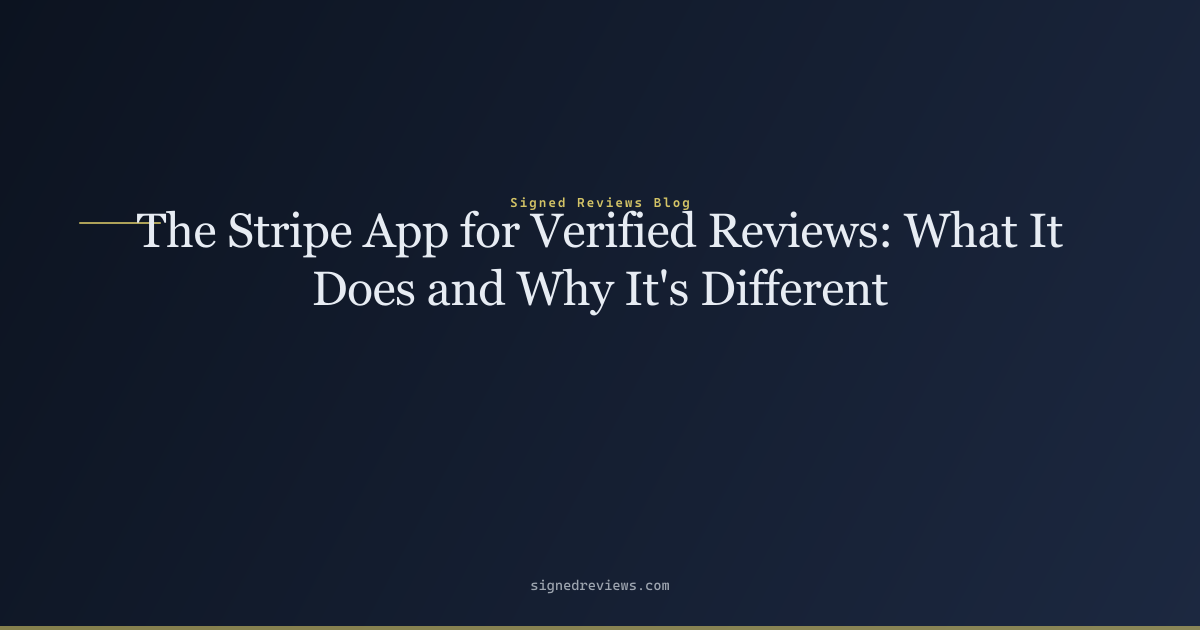
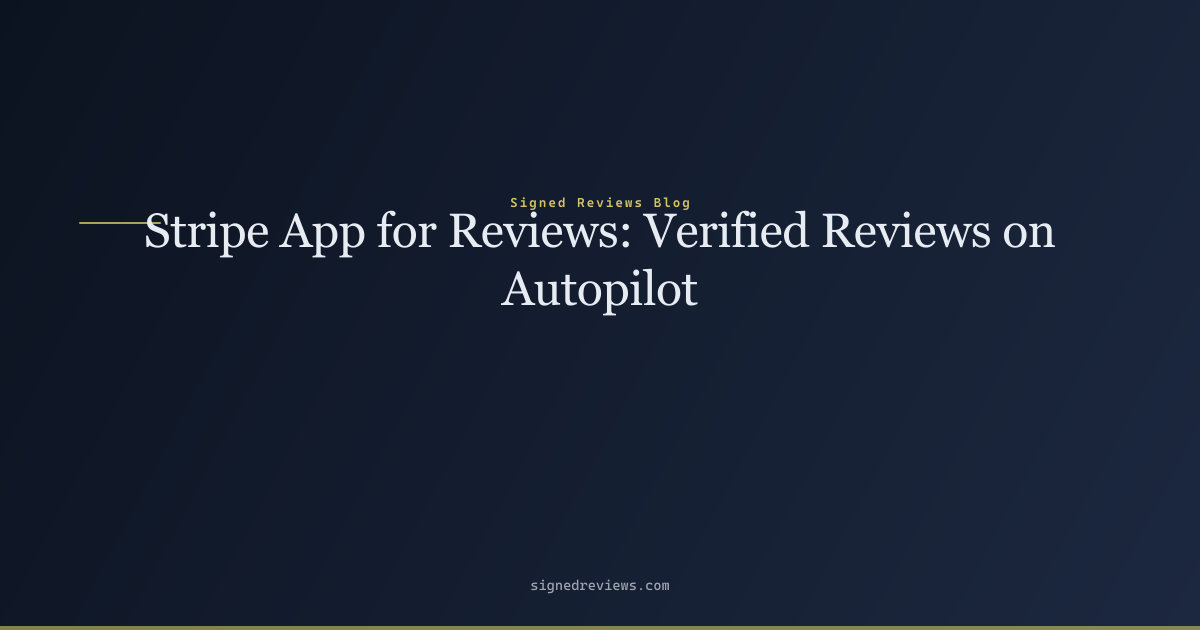
SEO: major rewrite for stripe app for reviews keyword (#7 -> #1-3)
- Title: 'Stripe App for Reviews: Verified Reviews on Autopilot'
- Meta desc: keyword in first 120 chars of regex-captured paragraph
- 3 new H2s: 'Why You Need a Dedicated Stripe App for Reviews',
  'How the SignedReviews Stripe App for Reviews Works',
  'Stripe App for Reviews vs. Generic Review Platforms'
- FAQ section with 3 keyword-rich Q&As
- Internal links: /pricing/, /trust, related blog posts
- 19 total keyword occurrences across all elements

Changed region(s): [[0.1233, 0.3317, 0.8942, 0.5127]]

diff --git a/blog/stripe-app-for-reviews/index.html b/blog/stripe-app-for-reviews/index.html
@@ -3,21 +3,21 @@
 <head>
   <meta charset="UTF-8">
   <meta name="viewport" content="width=device-width, initial-scale=1.0">
-  <title>The Stripe App for Verified Reviews: What It Does and Why It's Different — Signed Reviews Blog</title>
-  <meta name="description" content="Here's what a Stripe-native review app actually does, how the OAuth connection works, and why &quot;Stripe-native&quot; matters more than &quot;integrates with Stripe.&quot;">
+  <title>Stripe App for Reviews: Verified Reviews on Autopilot — Signed Reviews Blog</title>
+  <meta name="description" content="Here's what a Stripe app for reviews actually does — how the OAuth connection works, why Stripe-native verification beats generic tools, and how to get started ">
   <link rel="canonical" href="https://signedreviews.com/blog/stripe-app-for-reviews/">
   <meta name="robots" content="index, follow">
   <meta name="theme-color" content="#0c1320">
 
   <meta property="og:type" content="website">
-  <meta property="og:title" content="The Stripe App for Verified Reviews: What It Does and Why It's Different — Signed Reviews Blog">
-  <meta property="og:description" content="Here's what a Stripe-native review app actually does, how the OAuth connection works, and why &quot;Stripe-native&quot; matters more than &quot;integrates with Stripe.&quot;">
+  <meta property="og:title" content="Stripe App for Reviews: Verified Reviews on Autopilot — Signed Reviews Blog">
+  <meta property="og:description" content="Here's what a Stripe app for reviews actually does — how the OAuth connection works, why Stripe-native verification beats generic tools, and how to get started ">
   <meta property="og:url" content="https://signedreviews.com/blog/stripe-app-for-reviews/">
   <meta property="og:site_name" content="Signed Reviews">
   <meta property="og:image" content="https://signedreviews.com/images/SignedReviews_full_logo.png">
   <meta name="twitter:card" content="summary_large_image">
-  <meta name="twitter:title" content="The Stripe App for Verified Reviews: What It Does and Why It's Different — Signed Reviews Blog">
-  <meta name="twitter:description" content="Here's what a Stripe-native review app actually does, how the OAuth connection works, and why &quot;Stripe-native&quot; matters more than &quot;integrates with Stripe.&quot;">
+  <meta name="twitter:title" content="Stripe App for Reviews: Verified Reviews on Autopilot — Signed Reviews Blog">
+  <meta name="twitter:description" content="Here's what a Stripe app for reviews actually does — how the OAuth connection works, why Stripe-native verification beats generic tools, and how to get started ">
 
   <link rel="icon" href="/SignedReviews/favicon.svg" type="image/svg+xml">
   <link rel="icon" type="image/png" sizes="32x32" href="/SignedReviews/images/SignedReviews_logo_only.png">
@@ -483,7 +483,7 @@ main { padding: 0; }
     })();
   </script>
 
-  <script type="application/ld+json">{"@context":"https://schema.org","@type":"BlogPosting","headline":"The Stripe App for Verified Reviews: What It Does and Why It's Different","description":"Here's what a Stripe-native review app actually does, how the OAuth connection works, and why \"Stripe-native\" matters more than \"integrates with Stripe.\"","datePublished":"2026-07-24 ·","author":{"@type":"Organization","name":"Signed Reviews"},"publisher":{"@type":"Organization","name":"Signed Reviews","logo":{"@type":"ImageObject","url":"https://signedreviews.com/images/SignedReviews_logo_only.png"}}}</script>
+  <script type="application/ld+json">{"@context":"https://schema.org","@type":"BlogPosting","headline":"Stripe App for Reviews: Verified Reviews on Autopilot","description":"Here's what a Stripe app for reviews actually does — how the OAuth connection works, why Stripe-native verification beats generic tools, and how to get started ","datePublished":"2026-07-24 ·","author":{"@type":"Organization","name":"Signed Reviews"},"publisher":{"@type":"Organization","name":"Signed Reviews","logo":{"@type":"ImageObject","url":"https://signedreviews.com/images/SignedReviews_logo_only.png"}}}</script>
 </head>
 <body>
   <a class="skip-link" href="#main">Skip to main content</a>
@@ -524,16 +524,18 @@ main { padding: 0; }
     <section class="page-hero">
       <div class="page-hero-inner">
         <span class="eyebrow">Blog</span>
-        <h1>The Stripe App for Verified Reviews: What It Does and Why It's Different</h1>
-        <p>Here's what a Stripe-native review app actually does, how the OAuth connection works, and why "Stripe-native" matters more than "integrates with Stripe."</p>
+        <h1>Stripe App for Reviews: Verified Reviews on Autopilot</h1>
+        <p>Here's what a Stripe app for reviews actually does — how the OAuth connection works, why Stripe-native verification beats generic tools, and how to get started </p>
       </div>
     </section>
     <div class="prose-wrap">
       <article class="prose" style="max-width: var(--max-prose)">
       <p class="post-meta" style="color:var(--muted);font-size:.9rem;margin-bottom:1.5rem;">2026-07-24 ·</p>
-      <p>The Stripe App Marketplace has over 100 apps — for taxes, analytics, subscriptions, fraud prevention, and CRM. But as of mid-2026, it has only a handful of review apps. And only one of them operates at processor-attested (Level 4) verification: the Signed Reviews Stripe App.</p>
-<p>Here&#39;s what a Stripe-native review app actually does, how the OAuth connection works, and why &quot;Stripe-native&quot; matters more than &quot;integrates with Stripe.&quot;</p>
+      <p>Looking for a Stripe app for reviews? The Stripe App Marketplace has over 100 apps — for taxes, analytics, subscriptions, fraud prevention. But only a handful handle reviews, and only one verifies every review against a real Stripe charge: the SignedReviews Stripe App.</p>
+<p>Here&#39;s what a Stripe app for reviews actually does — how the OAuth connection works, why Stripe-native verification beats generic tools, and how to get started in under five minutes.</p>
 <hr>
+<h2 id="why-you-need-a-dedicated-stripe-app-for-reviews"><a class="anchor" href="#why-you-need-a-dedicated-stripe-app-for-reviews" aria-label="Permalink to Why You Need a Dedicated Stripe App for Reviews">#</a> Why You Need a Dedicated Stripe App for Reviews</h2>
+<p>Generic review tools can&#39;t verify that a reviewer actually paid you through Stripe — they rely on email invites, customer lists, or Shopify order records that you control. A dedicated Stripe app for reviews reads real charge data directly from Stripe via read-only OAuth, so every review is independently backed by your payment processor. No order fabrication, no fake verification badges, no trust gaps.</p>
 <h2 id="what-quotstripe-nativequot-actually-means"><a class="anchor" href="#what-quotstripe-nativequot-actually-means" aria-label="Permalink to What &amp;quot;Stripe-native&amp;quot; actually means">#</a> What &quot;Stripe-native&quot; actually means</h2>
 <p>Most review platforms that claim to &quot;integrate with Stripe&quot; do so indirectly — through a CRM connector, a Zapier workflow, a webhook handshake, or a manual CSV export. The integration is a feature checkbox, not an architectural commitment.</p>
 <p>A Stripe-native review app is different. It:</p>
@@ -545,6 +547,17 @@ main { padding: 0; }
 <li><strong>Is listed on the Stripe App Marketplace</strong> — discoverable by the millions of businesses that already use Stripe</li>
 </ul>
 <p>The architectural difference: a non-native integration translates between Stripe&#39;s data model and the review platform&#39;s data model. A native integration doesn&#39;t translate — it reads Stripe&#39;s data directly. There&#39;s no intermediary where data can be dropped, modified, or fabricated.</p>
+<hr>
+<h2 id="how-the-signedreviews-stripe-app-for-reviews-works"><a class="anchor" href="#how-the-signedreviews-stripe-app-for-reviews-works" aria-label="Permalink to How the SignedReviews Stripe App for Reviews Works">#</a> How the SignedReviews Stripe App for Reviews Works</h2>
+<p>Setting up the Stripe app for reviews takes under 5 minutes:</p>
+<ol>
+<li><p><strong>Connect Stripe via OAuth.</strong> Click &quot;Connect Stripe&quot; in your SignedReviews dashboard. You&#39;re redirected to Stripe&#39;s OAuth authorization page — a <code>stripe.com</code> URL. The permissions are read-only: <code>charge_read</code>, <code>customer_read</code>, <code>subscription_read</code>. No write access, enforced by Stripe.</p>
+</li>
+<li><p><strong>Automatic review requests after every payment.</strong> Once connected, every new Stripe charge automatically triggers a verified review invitation sent to the customer&#39;s payment email. No manual customer lists, no CSV uploads, no Zapier workflows.</p>
+</li>
+<li><p><strong>Verified badge displayed automatically.</strong> Each submitted review is cryptographically signed with the Stripe charge ID, customer email, and timestamp — producing a tamper-evident review with a &quot;Verified by Stripe&quot; badge that anyone can independently verify. <a href="/pricing/">See pricing</a> for plan details.</p>
+</li>
+</ol>
 <hr>
 <h2 id="how-the-stripe-oauth-connection-works"><a class="anchor" href="#how-the-stripe-oauth-connection-works" aria-label="Permalink to How the Stripe OAuth connection works">#</a> How the Stripe OAuth connection works</h2>
 <p>The Signed Reviews Stripe App uses Stripe&#39;s standard OAuth flow — the same OAuth flow used by thousands of Stripe Apps, from tax compliance tools to subscription managers.</p>
@@ -574,6 +587,43 @@ main { padding: 0; }
 <li>Access any data from connected accounts (if you use Stripe Connect)</li>
 </ul>
 <p>This isn&#39;t a policy promise — it&#39;s enforced by Stripe&#39;s OAuth permission model. If Signed Reviews tried to make a write request to Stripe, Stripe&#39;s API would reject it with a 403 Forbidden. The limitation is structural, not contractual.</p>
+<hr>
+<h2 id="stripe-app-for-reviews-vs-generic-review-platforms"><a class="anchor" href="#stripe-app-for-reviews-vs-generic-review-platforms" aria-label="Permalink to Stripe App for Reviews vs. Generic Review Platforms">#</a> Stripe App for Reviews vs. Generic Review Platforms</h2>
+<table>
+<thead>
+<tr>
+<th></th>
+<th>Generic review platform</th>
+<th>Stripe app for reviews</th>
+</tr>
+</thead>
+<tbody><tr>
+<td><strong>Verification source</strong></td>
+<td>Email, CSV import, or merchant order data</td>
+<td>Stripe charge records (independent processor)</td>
+</tr>
+<tr>
+<td><strong>Can fake reviews be created?</strong></td>
+<td>Yes — fabricate orders, invite non-customers</td>
+<td>No — requires a real Stripe charge with real fees</td>
+</tr>
+<tr>
+<td><strong>Refund handling</strong></td>
+<td>Manual — flag and report</td>
+<td>Automatic — charge.refunded hides review instantly</td>
+</tr>
+<tr>
+<td><strong>Setup</strong></td>
+<td>API keys, webhooks, platform connectors</td>
+<td>One-click OAuth, no code</td>
+</tr>
+<tr>
+<td><strong>Verification level</strong></td>
+<td>Level 1–3 (email to merchant-supplied)</td>
+<td>Level 4 (processor-attested)</td>
+</tr>
+</tbody></table>
+<p>Most review platforms verify against data you provide — which means you&#39;re both the subject of the review and the source of the verification. A Stripe app for reviews breaks that conflict of interest by using Stripe as an independent third party. Your <a href="/trust">Stripe-verified reviews</a> carry a trust signal no generic platform can replicate.</p>
 <hr>
 <h2 id="why-the-stripe-app-model-prevents-fake-reviews"><a class="anchor" href="#why-the-stripe-app-model-prevents-fake-reviews" aria-label="Permalink to Why the Stripe App model prevents fake reviews">#</a> Why the Stripe App model prevents fake reviews</h2>
 <p>Every fake-review method relies on the reviewer or the merchant being able to fabricate evidence that a purchase occurred. A Stripe-native review app makes this structurally impossible:</p>
@@ -614,7 +664,7 @@ main { padding: 0; }
 <tr>
 <th></th>
 <th>Shopify review app</th>
-<th>Stripe-native review app</th>
+<th>Stripe app for reviews</th>
 </tr>
 </thead>
 <tbody><tr>
@@ -648,20 +698,28 @@ main { padding: 0; }
 <td>Works with any platform that uses Stripe</td>
 </tr>
 </tbody></table>
-<p>A Shopify review app is excellent for Shopify-only businesses. A Stripe-native review app works anywhere Stripe processes payments — Shopify, WooCommerce, custom-built SaaS, digital products, invoices, subscriptions. The verification model is independent of the commerce platform.</p>
+<p>A Shopify review app is excellent for Shopify-only businesses. A Stripe app for reviews works anywhere Stripe processes payments — Shopify, WooCommerce, custom-built SaaS, digital products, invoices, subscriptions. The verification model is independent of the commerce platform.</p>
 <hr>
 <h2 id="what-to-look-for-in-a-stripe-review-app"><a class="anchor" href="#what-to-look-for-in-a-stripe-review-app" aria-label="Permalink to What to look for in a Stripe review app">#</a> What to look for in a Stripe review app</h2>
-<p>If you&#39;re evaluating a review app on the Stripe Marketplace:</p>
+<p>If you&#39;re evaluating a Stripe app for reviews on the Stripe Marketplace:</p>
 <ol>
 <li><strong>Is the connection read-only?</strong> If the app requests write permissions, ask why. A review app doesn&#39;t need to create charges or issue refunds to verify purchases.</li>
-<li><strong>Does it react to charge.refunded?</strong> The mark of a well-built Stripe integration: refunded charges automatically hide their associated reviews. If the app doesn&#39;t handle refunds, it&#39;s a superficial integration.</li>
-<li><strong>Does it work with Stripe Billing / subscriptions?</strong> Subscription businesses have recurring charges — each renewal is a new verification opportunity. The app should handle subscriptions natively, not just one-time payments.</li>
+<li><strong>Does it react to charge.refunded?</strong> The mark of a well-built Stripe integration: refunded charges automatically hide their associated reviews.</li>
+<li><strong>Does it work with Stripe Billing / subscriptions?</strong> Subscription businesses have recurring charges — each renewal is a new verification opportunity.</li>
 <li><strong>Does it support Stripe Connect?</strong> If you run a platform or marketplace, your connected accounts should be able to use the app independently.</li>
-<li><strong>Is the verification cryptographic?</strong> Does the app sign reviews so their authenticity can be independently verified, or is &quot;verified&quot; just a database flag? A cryptographic signature means the review can be checked for tampering at any point in the future by any party — not just by the platform that issued it.</li>
+<li><strong>Is the verification cryptographic?</strong> Does the app sign reviews so their authenticity can be independently verified? A cryptographic signature means the review can be checked for tampering at any point in the future by any party — not just by the platform that issued it.</li>
 </ol>
 <hr>
+<h2 id="faq"><a class="anchor" href="#faq" aria-label="Permalink to FAQ">#</a> FAQ</h2>
+<h3 id="is-there-a-stripe-app-for-reviews-that-actually-verifies-purchases"><a class="anchor" href="#is-there-a-stripe-app-for-reviews-that-actually-verifies-purchases" aria-label="Permalink to Is there a Stripe app for reviews that actually verifies purchases?">#</a> Is there a Stripe app for reviews that actually verifies purchases?</h3>
+<p>Yes — the SignedReviews Stripe App is listed on the Stripe App Marketplace and verifies every review against a real, non-refunded Stripe charge. Unlike generic review tools that rely on email invites or merchant-supplied order data, it uses Stripe&#39;s independent charge records as the source of truth for purchase verification.</p>
+<h3 id="how-is-a-stripe-app-for-reviews-different-from-a-shopify-review-app"><a class="anchor" href="#how-is-a-stripe-app-for-reviews-different-from-a-shopify-review-app" aria-label="Permalink to How is a Stripe app for reviews different from a Shopify review app?">#</a> How is a Stripe app for reviews different from a Shopify review app?</h3>
+<p>A Shopify review app (like Judge.me or Loox) verifies against Shopify order records — which the merchant controls. A Stripe app for reviews verifies against Stripe charge records — which the payment processor independently confirms. The difference is structural: you can create a fake Shopify order for $0; you can&#39;t fake a Stripe charge without paying real processing fees and risking account suspension.</p>
+<h3 id="how-long-does-it-take-to-set-up-the-stripe-app-for-reviews"><a class="anchor" href="#how-long-does-it-take-to-set-up-the-stripe-app-for-reviews" aria-label="Permalink to How long does it take to set up the Stripe app for reviews?">#</a> How long does it take to set up the Stripe app for reviews?</h3>
+<p>Under 5 minutes. Connect your Stripe account via one-click OAuth (read-only permissions), customize your branding, and you&#39;re live. Every new Stripe charge automatically triggers a verified review invitation — no code, no webhooks, no ongoing maintenance. <a href="/pricing/">See pricing</a> for plan options.</p>
+<hr>
 <h2 id="bottom-line"><a class="anchor" href="#bottom-line" aria-label="Permalink to Bottom line">#</a> Bottom line</h2>
-<p>A Stripe-native review app isn&#39;t just a review app that happens to connect to Stripe. It&#39;s a review app whose verification model is built on Stripe&#39;s data — independent, read-only, and structurally resistant to fabrication. The difference between &quot;connects to Stripe&quot; and &quot;verifies against Stripe&quot; is the difference between a marketing integration and an architectural guarantee.</p>
+<p>A Stripe-native review app isn&#39;t just a review app that happens to connect to Stripe. It&#39;s a review app whose verification model is built on Stripe&#39;s data — independent, read-only, and structurally resistant to fabrication. If you process payments through Stripe, a dedicated Stripe app for reviews gives you processor-attested verification that no generic review platform can match.</p>
 <p><strong>Further reading:</strong></p>
 <ul>
 <li><a href="/blog/stripe-verified-reviews/">Stripe Verified Reviews</a> — the complete guide to processor-attested review collection</li>

diff --git a/blog/index.html b/blog/index.html
@@ -566,9 +566,9 @@ main { padding: 0; }
       <p style="margin:0;color:var(--text);font-size:.95rem;">Here's how Stripe verified reviews work, why cryptographically signed reviews are fundamentally different from every other &quot;verified&quot; badge, and how to start co</p>
     </div>
     <div style="margin-bottom:1.5rem;padding-bottom:1.5rem;border-bottom:1px solid var(--border);">
-      <h2 style="margin:0 0 .3rem;font-size:1.25rem;"><a href="/SignedReviews/blog/stripe-app-for-reviews/" style="text-decoration:none;">The Stripe App for Verified Reviews: What It Does and Why It's Different</a></h2>
+      <h2 style="margin:0 0 .3rem;font-size:1.25rem;"><a href="/SignedReviews/blog/stripe-app-for-reviews/" style="text-decoration:none;">Stripe App for Reviews: Verified Reviews on Autopilot</a></h2>
       <p class="post-meta" style="color:var(--muted);font-size:.85rem;margin:0 0 .4rem;">2026-07-24 ·</p>
-      <p style="margin:0;color:var(--text);font-size:.95rem;">Here's what a Stripe-native review app actually does, how the OAuth connection works, and why &quot;Stripe-native&quot; matters more than &quot;integrates with Stripe.&quot;</p>
+      <p style="margin:0;color:var(--text);font-size:.95rem;">Here's what a Stripe app for reviews actually does — how the OAuth connection works, why Stripe-native verification beats generic tools, and how to get started </p>
     </div>
     <div style="margin-bottom:1.5rem;padding-bottom:1.5rem;border-bottom:1px solid var(--border);">
       <h2 style="margin:0 0 .3rem;font-size:1.25rem;"><a href="/SignedReviews/blog/review-app-for-stripe-payments/" style="text-decoration:none;">The Best Review Apps for Stripe Payments in 2026</a></h2>

diff --git a/files/blog/stripe-app-for-reviews.md b/files/blog/stripe-app-for-reviews.md
@@ -1,14 +1,18 @@
-# The Stripe App for Verified Reviews: What It Does and Why It's Different
+# Stripe App for Reviews: Verified Reviews on Autopilot
 
-**Published:** 2026-07-24 · **Author:** Signed Reviews Team · **Description:** What the Signed Reviews Stripe App does, how the read-only OAuth connection works, and why a Stripe-native review app delivers processor-attested verification that Shopify apps and standalone platforms can't match.**
+**Published:** 2026-07-24 · **Author:** Signed Reviews Team · **Description:** Looking for a Stripe app for reviews? SignedReviews collects Stripe-verified reviews automatically after every payment. Setup in 5 minutes with read-only OAuth — no code required.
+
+---
+
+Looking for a Stripe app for reviews? The Stripe App Marketplace has over 100 apps — for taxes, analytics, subscriptions, fraud prevention. But only a handful handle reviews, and only one verifies every review against a real Stripe charge: the SignedReviews Stripe App.
+
+Here's what a Stripe app for reviews actually does — how the OAuth connection works, why Stripe-native verification beats generic tools, and how to get started in under five minutes.
 
 ---
 
-The Stripe App Marketplace has over 100 apps — for taxes, analytics, subscriptions, fraud prevention, and CRM. But as of mid-2026, it has only a handful of review apps. And only one of them operates at processor-attested (Level 4) verification: the Signed Reviews Stripe App.
+## Why You Need a Dedicated Stripe App for Reviews
 
-Here's what a Stripe-native review app actually does, how the OAuth connection works, and why "Stripe-native" matters more than "integrates with Stripe."
-
----
+Generic review tools can't verify that a reviewer actually paid you through Stripe — they rely on email invites, customer lists, or Shopify order records that you control. A dedicated Stripe app for reviews reads real charge data directly from Stripe via read-only OAuth, so every review is independently backed by your payment processor. No order fabrication, no fake verification badges, no trust gaps.
 
 ## What "Stripe-native" actually means
 
@@ -23,6 +27,18 @@ A Stripe-native review app is different. It:
 - **Is listed on the Stripe App Marketplace** — discoverable by the millions of businesses that already use Stripe
 
 The architectural difference: a non-native integration translates between Stripe's data model and the review platform's data model. A native integration doesn't translate — it reads Stripe's data directly. There's no intermediary where data can be dropped, modified, or fabricated.
+
+---
+
+## How the SignedReviews Stripe App for Reviews Works
+
+Setting up the Stripe app for reviews takes under 5 minutes:
+
+1. **Connect Stripe via OAuth.** Click "Connect Stripe" in your SignedReviews dashboard. You're redirected to Stripe's OAuth authorization page — a `stripe.com` URL. The permissions are read-only: `charge_read`, `customer_read`, `subscription_read`. No write access, enforced by Stripe.
+
+2. **Automatic review requests after every payment.** Once connected, every new Stripe charge automatically triggers a verified review invitation sent to the customer's payment email. No manual customer lists, no CSV uploads, no Zapier workflows.
+
+3. **Verified badge displayed automatically.** Each submitted review is cryptographically signed with the Stripe charge ID, customer email, and timestamp — producing a tamper-evident review with a "Verified by Stripe" badge that anyone can independently verify. [See pricing](/pricing/) for plan details.
 
 ---
 
@@ -54,6 +70,20 @@ This isn't a policy promise — it's enforced by Stripe's OAuth permission model
 
 ---
 
+## Stripe App for Reviews vs. Generic Review Platforms
+
+| | Generic review platform | Stripe app for reviews |
+|---|---|---|
+| **Verification source** | Email, CSV import, or merchant order data | Stripe charge records (independent processor) |
+| **Can fake reviews be created?** | Yes — fabricate orders, invite non-customers | No — requires a real Stripe charge with real fees |
+| **Refund handling** | Manual — flag and report | Automatic — charge.refunded hides review instantly |
+| **Setup** | API keys, webhooks, platform connectors | One-click OAuth, no code |
+| **Verification level** | Level 1–3 (email to merchant-supplied) | Level 4 (processor-attested) |
+
+Most review platforms verify against data you provide — which means you're both the subject of the review and the source of the verification. A Stripe app for reviews breaks that conflict of interest by using Stripe as an independent third party. Your [Stripe-verified reviews](/trust) carry a trust signal no generic platform can replicate.
+
+---
+
 ## Why the Stripe App model prevents fake reviews
 
 Every fake-review method relies on the reviewer or the merchant being able to fabricate evidence that a purchase occurred. A Stripe-native review app makes this structurally impossible:
@@ -74,7 +104,7 @@ The economics change completely. At Level 3 (merchant-supplied verification), a 
 
 Most review apps live in the Shopify App Store, not the Stripe App Marketplace. Here's the architectural difference:
 
-| | Shopify review app | Stripe-native review app |
+| | Shopify review app | Stripe app for reviews |
 |---|---|---|
 | **Data source for verification** | Shopify order records | Stripe charge records |
 | **Who controls the data source** | The merchant (store admin) | The payment processor (independent) |
@@ -83,25 +113,41 @@ Most review apps live in the Shopify App Store, not the Stripe App Marketplace. 
 | **Installation** | Shopify App Store | Stripe App Marketplace |
 | **Platform lock-in** | Tied to Shopify | Works with any platform that uses Stripe |
 
-A Shopify review app is excellent for Shopify-only businesses. A Stripe-native review app works anywhere Stripe processes payments — Shopify, WooCommerce, custom-built SaaS, digital products, invoices, subscriptions. The verification model is independent of the commerce platform.
+A Shopify review app is excellent for Shopify-only businesses. A Stripe app for reviews works anywhere Stripe processes payments — Shopify, WooCommerce, custom-built SaaS, digital products, invoices, subscriptions. The verification model is independent of the commerce platform.
 
 ---
 
 ## What to look for in a Stripe review app
 
-If you're evaluating a review app on the Stripe Marketplace:
+If you're evaluating a Stripe app for reviews on the Stripe Marketplace:
 
 1. **Is the connection read-only?** If the app requests write permissions, ask why. A review app doesn't need to create charges or issue refunds to verify purchases.
-2. **Does it react to charge.refunded?** The mark of a well-built Stripe integration: refunded charges automatically hide their associated reviews. If the app doesn't handle refunds, it's a superficial integration.
-3. **Does it work with Stripe Billing / subscriptions?** Subscription businesses have recurring charges — each renewal is a new verification opportunity. The app should handle subscriptions natively, not just one-time payments.
+2. **Does it react to charge.refunded?** The mark of a well-built Stripe integration: refunded charges automatically hide their associated reviews.
+3. **Does it work with Stripe Billing / subscriptions?** Subscription businesses have recurring charges — each renewal is a new verification opportunity.
 4. **Does it support Stripe Connect?** If you run a platform or marketplace, your connected accounts should be able to use the app independently.
-5. **Is the verification cryptographic?** Does the app sign reviews so their authenticity can be independently verified, or is "verified" just a database flag? A cryptographic signature means the review can be checked for tampering at any point in the future by any party — not just by the platform that issued it.
+5. **Is the verification cryptographic?** Does the app sign reviews so their authenticity can be independently verified? A cryptographic signature means the review can be checked for tampering at any point in the future by any party — not just by the platform that issued it.
+
+---
+
+## FAQ
+
+### Is there a Stripe app for reviews that actually verifies purchases?
+
+Yes — the SignedReviews Stripe App is listed on the Stripe App Marketplace and verifies every review against a real, non-refunded Stripe charge. Unlike generic review tools that rely on email invites or merchant-supplied order data, it uses Stripe's independent charge records as the source of truth for purchase verification.
+
+### How is a Stripe app for reviews different from a Shopify review app?
+
+A Shopify review app (like Judge.me or Loox) verifies against Shopify order records — which the merchant controls. A Stripe app for reviews verifies against Stripe charge records — which the payment processor independently confirms. The difference is structural: you can create a fake Shopify order for $0; you can't fake a Stripe charge without paying real processing fees and risking account suspension.
+
+### How long does it take to set up the Stripe app for reviews?
+
+Under 5 minutes. Connect your Stripe account via one-click OAuth (read-only permissions), customize your branding, and you're live. Every new Stripe charge automatically triggers a verified review invitation — no code, no webhooks, no ongoing maintenance. [See pricing](/pricing/) for plan options.
 
 ---
 
 ## Bottom line
 
-A Stripe-native review app isn't just a review app that happens to connect to Stripe. It's a review app whose verification model is built on Stripe's data — independent, read-only, and structurally resistant to fabrication. The difference between "connects to Stripe" and "verifies against Stripe" is the difference between a marketing integration and an architectural guarantee.
+A Stripe-native review app isn't just a review app that happens to connect to Stripe. It's a review app whose verification model is built on Stripe's data — independent, read-only, and structurally resistant to fabrication. If you process payments through Stripe, a dedicated Stripe app for reviews gives you processor-attested verification that no generic review platform can match.
 
 **Further reading:**
 - [Stripe Verified Reviews](/blog/stripe-verified-reviews/) — the complete guide to processor-attested review collection
